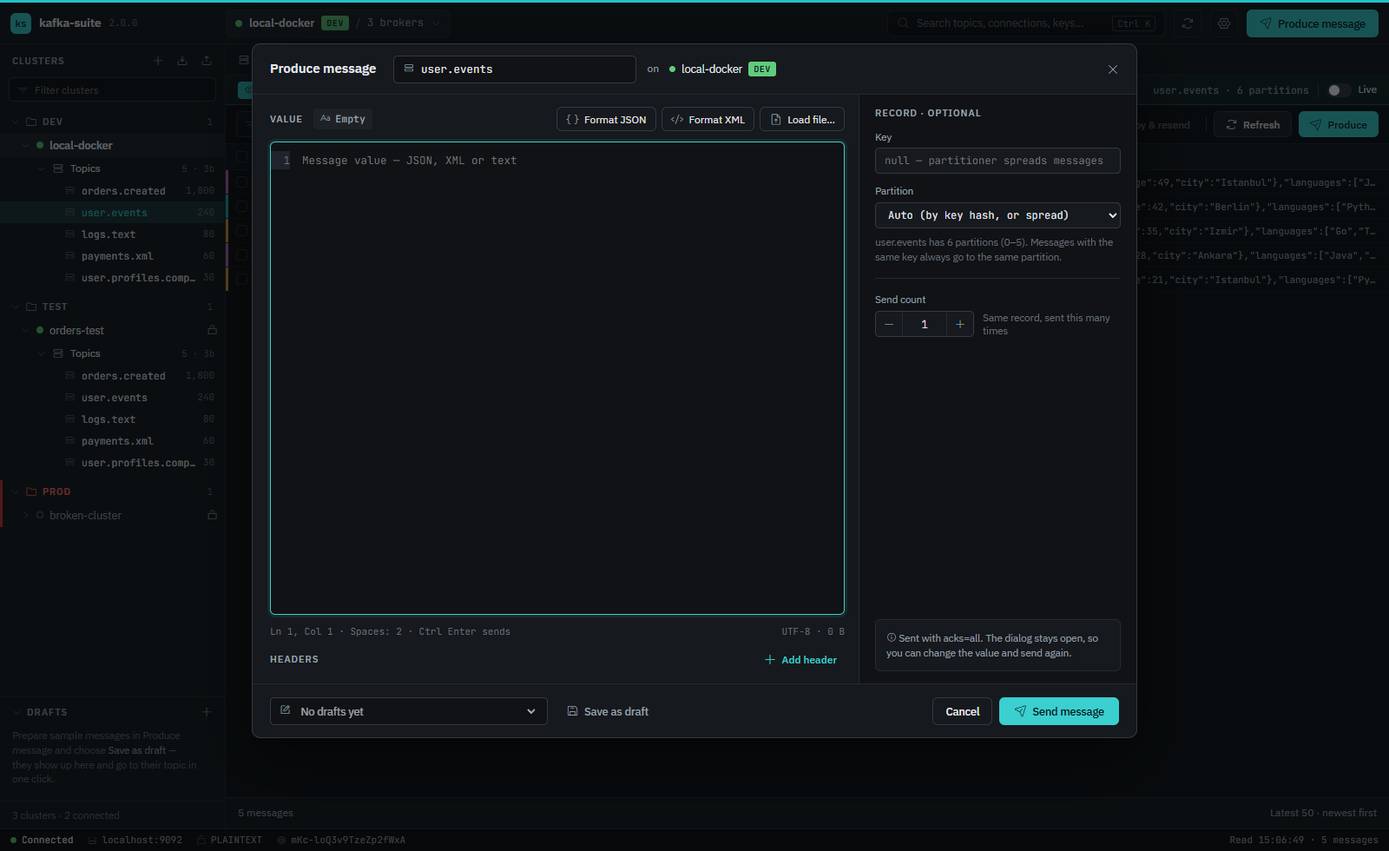
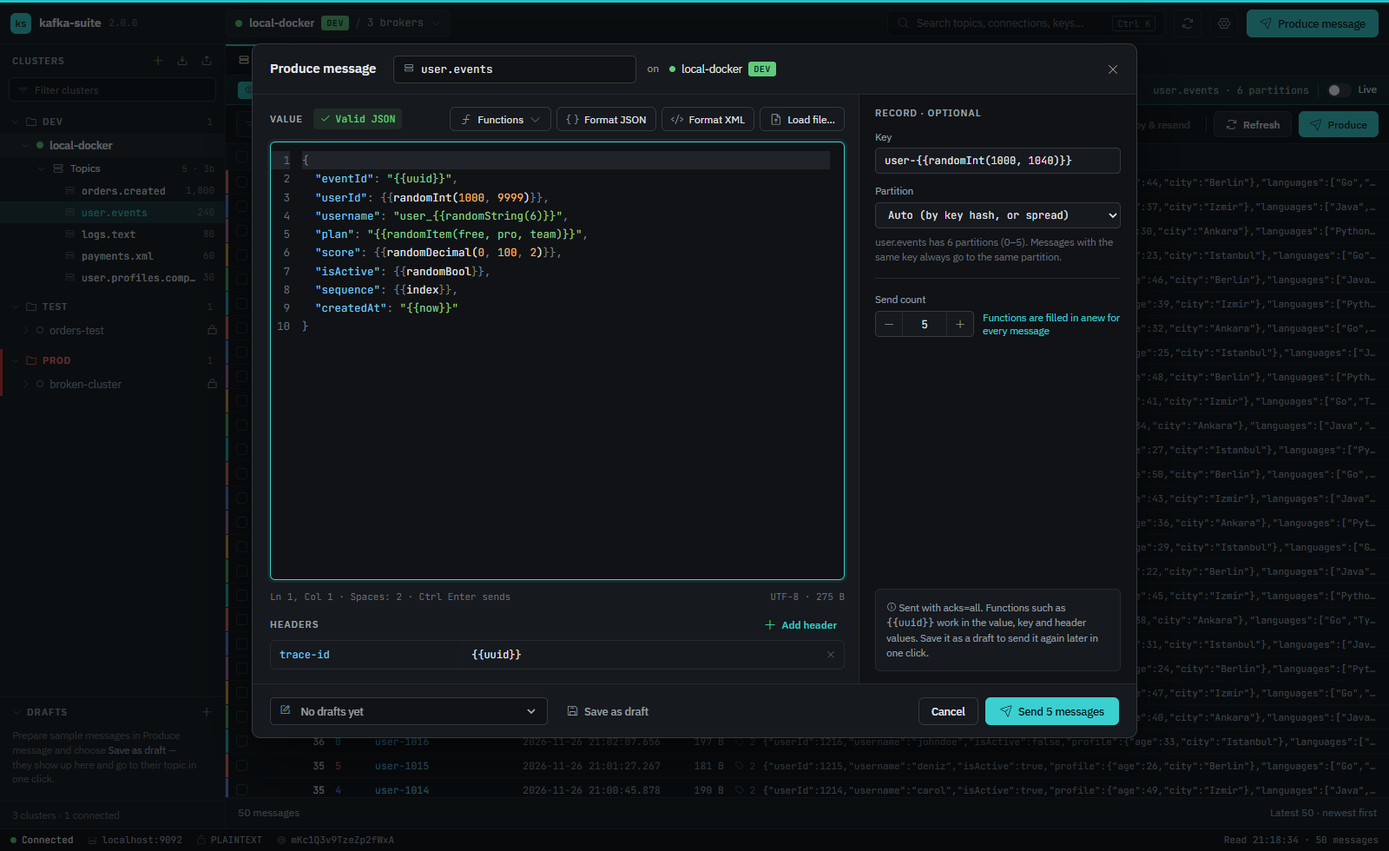
Refactor code structure for improved readability and maintainability

diff --git a/docs/index.html b/docs/index.html
@@ -1,0 +1,305 @@
+<!doctype html>
+<html lang="en">
+<head>
+<meta charset="utf-8" />
+<meta name="viewport" content="width=device-width, initial-scale=1" />
+<title>Kafka Suite — desktop client for Apache Kafka</title>
+<meta name="description" content="Kafka Suite is a free, open-source desktop app for Apache Kafka: browse topics, tail messages live, filter with a query language and produce test messages. Windows, macOS and Linux." />
+<meta property="og:title" content="Kafka Suite — desktop client for Apache Kafka" />
+<meta property="og:description" content="Kafka Suite is a free, open-source desktop app for Apache Kafka: browse topics, tail messages live, filter with a query language and produce test messages. Windows, macOS and Linux." />
+<meta property="og:image" content="https://sametakbal.github.io/kafka-suite/screenshots/messages.png" />
+<meta property="og:type" content="website" />
+<meta name="twitter:card" content="summary_large_image" />
+<meta name="theme-color" content="#0d0f12" />
+<link rel="icon" type="image/png" href="assets/favicon.png" />
+<link rel="preconnect" href="https://fonts.googleapis.com" />
+<link rel="stylesheet" href="https://fonts.googleapis.com/css2?family=IBM+Plex+Sans:wght@400;500;600;700&amp;family=JetBrains+Mono:wght@400;500;600&amp;display=swap" />
+<style>
+html{scroll-behavior:smooth}
+body{margin:0;background:#0d0f12}
+.ks{--bg:#0d0f12;--alt:#121519;--panel:#16191d;--line:#262a31;--text:#e4e7eb;--muted:#a3aab4;--acc:#4cc9d1;--acc-ink:#04191c;--org:#f2803a;
+background:var(--bg);color:var(--text);font-family:"IBM Plex Sans",system-ui,sans-serif;font-size:17px;line-height:1.6;-webkit-font-smoothing:antialiased}
+.ks *{box-sizing:border-box}
+.ks a{color:var(--acc);text-decoration:none}
+.ks a:hover{color:#8fe3e8}
+.ks code,.ks pre{font-family:"JetBrains Mono",ui-monospace,monospace}
+.ks code{font-size:.88em;background:#1e2227;padding:1px 6px;border-radius:5px;color:#d6dadf}
+.wrap{max-width:1180px;margin:0 auto;padding:0 28px}
+.nav{position:sticky;top:0;z-index:10;background:rgba(13,15,18,.85);backdrop-filter:blur(10px);border-bottom:1px solid var(--line)}
+.nav-in{display:flex;align-items:center;justify-content:space-between;gap:16px;height:64px}
+.ks .brand{display:flex;align-items:center;gap:10px;color:var(--text);font-weight:600;font-size:17px}
+.brand img{display:block}
+.nav-links{display:flex;align-items:center;gap:26px}
+.ks .nav-links a{color:var(--muted);font-size:15px}
+.ks .nav-links a:hover{color:var(--text)}
+.btn{display:inline-flex;align-items:center;gap:9px;min-height:46px;padding:0 22px;border-radius:10px;font-weight:600;font-size:16px;border:1px solid transparent}
+.btn-sm{min-height:38px;padding:0 14px;font-size:14px}
+.ks .btn-primary{background:var(--acc);color:var(--acc-ink)}
+.ks .btn-primary:hover{background:#7adbe1;color:var(--acc-ink)}
+.ks .btn-ghost{border-color:#343a43;color:var(--text)}
+.ks .btn-ghost:hover{border-color:var(--acc);color:var(--text)}
+.ks .nav-links .btn-ghost{color:var(--text)}
+.hero{padding:96px 0 40px;text-align:center;background:radial-gradient(900px 420px at 50% -60px,rgba(76,201,209,.16),transparent 70%)}
+.eyebrow{display:inline-flex;align-items:center;gap:8px;margin:0 0 24px;padding:6px 14px;border:1px solid var(--line);border-radius:999px;font:500 13px/1.4 "JetBrains Mono",monospace;color:var(--muted)}
+.dot{width:8px;height:8px;border-radius:50%;background:#5fd38a}
+.hero h1{margin:0 auto;max-width:880px;font-size:64px;line-height:1.06;letter-spacing:-.025em;font-weight:700}
+.acc{color:var(--acc)}
+.lead{max-width:680px;margin:24px auto 0;font-size:20px;color:var(--muted)}
+.cta{display:flex;justify-content:center;flex-wrap:wrap;gap:14px;margin-top:36px}
+.platforms{margin:18px 0 0;font-size:14px;color:var(--muted)}
+.shot{display:block;border:1px solid var(--line);border-radius:14px;overflow:hidden;background:var(--panel);box-shadow:0 30px 80px rgba(0,0,0,.5)}
+.shot img{display:block;width:100%;height:auto}
+.hero-shot{margin-top:64px}
+.sec{padding:110px 0}
+.sec-alt{background:var(--alt);border-top:1px solid var(--line);border-bottom:1px solid var(--line)}
+.kicker{margin:0 0 12px;font:600 13px/1.4 "JetBrains Mono",monospace;letter-spacing:.12em;text-transform:uppercase;color:var(--org);text-align:center}
+.sec h2{margin:0 auto 56px;max-width:760px;font-size:42px;line-height:1.15;letter-spacing:-.02em;text-align:center}
+.grid{display:grid;grid-template-columns:repeat(4,minmax(0,1fr));gap:18px}
+.card{padding:26px;border:1px solid var(--line);border-radius:14px;background:var(--panel)}
+.ic{display:flex;align-items:center;justify-content:center;width:42px;height:42px;border-radius:10px;background:rgba(76,201,209,.1);color:var(--acc)}
+.card h3{margin:18px 0 8px;font-size:18px}
+.card p{margin:0;font-size:15px;color:var(--muted)}
+.split{display:grid;grid-template-columns:minmax(0,5fr) minmax(0,7fr);gap:56px;align-items:center}
+.split .kicker,.split h2{text-align:left;margin-left:0}
+.split h2{margin-bottom:18px}
+.body{margin:0;color:var(--muted)}
+.center{text-align:center;margin:-36px auto 40px;max-width:620px}
+.code{margin:24px 0 0;padding:22px 24px;background:#0a0c0e;border:1px solid var(--line);border-radius:12px;font-size:14px;line-height:1.75;color:#e4e7eb;overflow-x:auto;white-space:pre}
+.code .c{color:#7d848e}
+.gallery{display:grid;grid-template-columns:repeat(2,minmax(0,1fr));gap:36px 28px}
+.gallery figure{margin:0}
+.gallery .shot{box-shadow:0 18px 50px rgba(0,0,0,.4)}
+.gallery figcaption{margin-top:14px;font-size:15px;color:var(--muted)}
+.gallery b{color:var(--text)}
+.dl{display:grid;grid-template-columns:repeat(3,minmax(0,1fr));gap:18px;max-width:900px;margin:0 auto}
+.ks .dl-card{display:flex;flex-direction:column;gap:6px;padding:28px;border:1px solid var(--line);border-radius:14px;background:var(--panel);color:var(--text)}
+.ks .dl-card:hover{border-color:var(--acc);color:var(--text)}
+.os{font-size:22px;font-weight:600}
+.pk{font:14px/1.5 "JetBrains Mono",monospace;color:var(--muted)}
+.note{margin:28px auto 0;text-align:center;font-size:15px;color:var(--muted)}
+.arch{display:grid;grid-template-columns:minmax(0,1fr) 220px minmax(0,1fr);align-items:center;gap:0}
+.arch-box{display:flex;flex-direction:column;gap:8px;padding:28px;border:1px solid var(--line);border-radius:14px;background:var(--panel)}
+.arch-box b{font-size:20px}
+.arch-box span:last-child{font-size:15px;color:var(--muted)}
+.tag{align-self:flex-start;padding:3px 10px;border-radius:6px;font:600 12px/1.5 "JetBrains Mono",monospace;background:rgba(76,201,209,.12);color:var(--acc)}
+.tag-o{background:rgba(242,128,58,.12);color:var(--org)}
+.arch-link{display:flex;flex-direction:column;align-items:center;gap:8px;padding:0 12px;font:12px/1.4 "JetBrains Mono",monospace;color:var(--muted);text-align:center}
+.arch-link i{display:block;width:100%;height:2px;background:linear-gradient(90deg,var(--acc),var(--org))}
+.dev{display:grid;grid-template-columns:minmax(0,5fr) minmax(0,7fr);gap:56px;align-items:center;margin-top:72px}
+.dev h3{margin:0 0 8px;font-size:22px}
+.dev .code{margin:0}
+.foot{padding:40px 0;border-top:1px solid var(--line)}
+.foot-in{display:flex;align-items:center;justify-content:space-between;flex-wrap:wrap;gap:16px}
+.foot p{margin:0;font-size:14px;color:var(--muted)}
+#generate{background:var(--bg)}
+.sec-alt+#generate{border-top:0}
+.split-rev{grid-template-columns:minmax(0,5fr) minmax(0,6fr)}
+.fn-list{display:flex;flex-wrap:wrap;gap:8px;margin:24px 0 0;padding:0;list-style:none}
+.ks .fn-list code{display:inline-block;padding:4px 10px;border:1px solid var(--line);background:var(--panel);color:#cfe9eb;font-size:13px}
+.gen{display:flex;flex-direction:column;gap:10px}
+.gen-pane .code{margin:0}
+.gen-label{margin:0 0 8px;font:500 12px/1.4 "JetBrains Mono",monospace;color:var(--muted);text-transform:uppercase;letter-spacing:.08em}
+.gen-label b{color:var(--acc)}
+.code .fn{color:var(--acc)}
+.code .out{color:#f6a56e}
+.gen-arrow{display:flex;justify-content:center;color:var(--muted)}
+.ks .btn-coffee{background:#ffdd00;color:#1a1600}
+.ks .btn-coffee:hover{background:#ffe740;color:#1a1600}
+.ks .nav-links .btn-coffee{color:#1a1600}
+.support{padding:0 0 110px}
+.support-in{display:flex;align-items:center;justify-content:space-between;flex-wrap:wrap;gap:32px;padding:44px 48px;border:1px solid var(--line);border-radius:18px;background:linear-gradient(135deg,rgba(255,221,0,.07),rgba(76,201,209,.06)),var(--panel)}
+.support-in>div:first-child{flex:1 1 420px;min-width:0}
+.support h2{margin:0 0 10px;font-size:30px;line-height:1.2;letter-spacing:-.015em}
+.support .body{max-width:560px}
+.support-cta{display:flex;flex-wrap:wrap;gap:12px}
+@media (max-width:980px){.grid{grid-template-columns:repeat(2,minmax(0,1fr))}.split,.split-rev,.dev{grid-template-columns:minmax(0,1fr)}.hero h1{font-size:48px}}
+@media (max-width:680px){.hide-sm{display:none}.ks .nav-links .btn-coffee{padding:0 11px}.support-in{padding:32px 24px}.support h2{font-size:26px}.nav-links a:not(.btn){display:none}.grid,.gallery,.dl{grid-template-columns:minmax(0,1fr)}.arch{grid-template-columns:minmax(0,1fr)}.arch-link{padding:18px 0}.arch-link i{width:2px;height:28px}.hero{padding-top:64px}.hero h1{font-size:38px}.lead{font-size:18px}.sec{padding:80px 0}.sec h2{font-size:32px}}
+</style>
+</head>
+<body>
+<div class="ks">
+<header class="nav">
+<div class="wrap nav-in">
+<a class="brand" href="#top"><img src="assets/logo.png" alt="" width="32" height="32" /><span>Kafka Suite</span></a>
+<nav class="nav-links" aria-label="Main">
+<a href="#features">Features</a>
+<a href="#query">Query</a>
+<a href="#generate">Test data</a>
+<a href="#screenshots">Screenshots</a>
+<a href="#install">Install</a>
+<a class="btn btn-coffee btn-sm" href="https://buymeacoffee.com/sametakbal"><svg width="16" height="16" viewBox="0 0 24 24" fill="none" stroke="currentColor" stroke-width="2" stroke-linecap="round" stroke-linejoin="round" aria-hidden="true"><path d="M17 8h1a4 4 0 0 1 0 8h-1"></path><path d="M3 8h14v9a4 4 0 0 1-4 4H7a4 4 0 0 1-4-4Z"></path><path d="M6 2v2"></path><path d="M10 2v2"></path><path d="M14 2v2"></path></svg><span class="hide-sm">Buy me a coffee</span></a>
+<a class="btn btn-ghost btn-sm" href="https://github.com/sametakbal/kafka-suite"><svg width="16" height="16" viewBox="0 0 24 24" fill="currentColor" aria-hidden="true"><path d="M12 .5a11.5 11.5 0 0 0-3.64 22.41c.58.1.79-.25.79-.56v-2c-3.2.7-3.88-1.37-3.88-1.37-.52-1.33-1.28-1.69-1.28-1.69-1.05-.71.08-.7.08-.7 1.16.08 1.77 1.19 1.77 1.19 1.03 1.77 2.7 1.26 3.36.96.1-.75.4-1.26.73-1.55-2.55-.29-5.24-1.28-5.24-5.69 0-1.26.45-2.29 1.19-3.1-.12-.29-.52-1.46.11-3.05 0 0 .97-.31 3.17 1.18a11 11 0 0 1 5.77 0c2.2-1.49 3.17-1.18 3.17-1.18.63 1.59.23 2.76.11 3.05.74.81 1.19 1.84 1.19 3.1 0 4.42-2.7 5.39-5.26 5.68.41.36.78 1.06.78 2.14v3.17c0 .31.21.67.8.56A11.5 11.5 0 0 0 12 .5Z"></path></svg>GitHub</a>
+</nav>
+</div>
+</header>
+
+<section class="hero" id="top">
+<div class="wrap">
+<p class="eyebrow"><span class="dot"></span>Free &amp; open source · MIT</p>
+<h1>A fast desktop client for your <span class="acc">Kafka</span> clusters.</h1>
+<p class="lead">Browse topics, read the latest messages or tail new ones live, filter them with a small query language, and produce realistic test data. No server, no consumer groups, nothing to install besides the app.</p>
+<div class="cta">
+<a class="btn btn-primary" href="https://github.com/sametakbal/kafka-suite/releases/latest"><svg width="18" height="18" viewBox="0 0 24 24" fill="none" stroke="currentColor" stroke-width="2" stroke-linecap="round" stroke-linejoin="round" aria-hidden="true"><path d="M12 3v12"></path><path d="m7 10 5 5 5-5"></path><path d="M5 21h14"></path></svg>Download</a>
+<a class="btn btn-ghost" href="https://github.com/sametakbal/kafka-suite">View source on GitHub</a>
+</div>
+<p class="platforms">Windows · macOS · Linux — Java runtime and Kafka client bundled</p>
+<div class="shot hero-shot"><img src="screenshots/messages.png" alt="Kafka Suite reading the user.events topic with a JSON message open" width="1600" height="980" /></div>
+</div>
+</section>
+
+<section class="sec" id="features">
+<div class="wrap">
+<p class="kicker">Features</p>
+<h2>Everything you reach for when debugging a topic.</h2>
+<div class="grid">
+<article class="card"><div class="ic"><svg width="22" height="22" viewBox="0 0 24 24" fill="none" stroke="currentColor" stroke-width="2" stroke-linecap="round" stroke-linejoin="round" aria-hidden="true"><path d="M3 7a2 2 0 0 1 2-2h4l2 2h8a2 2 0 0 1 2 2v8a2 2 0 0 1-2 2H5a2 2 0 0 1-2-2Z"></path></svg></div><h3>Clusters in folders</h3><p>Group connections and tag each one DEV, TEST or PROD with a colour. Export and import them as JSON — passwords never included.</p></article>
+<article class="card"><div class="ic"><svg width="22" height="22" viewBox="0 0 24 24" fill="none" stroke="currentColor" stroke-width="2" stroke-linecap="round" stroke-linejoin="round" aria-hidden="true"><rect x="4" y="11" width="16" height="10" rx="2"></rect><path d="M8 11V7a4 4 0 0 1 8 0v4"></path></svg></div><h3>SASL, TLS &amp; keychain</h3><p>PLAINTEXT, SSL, SASL_PLAINTEXT and SASL_SSL with PLAIN or SCRAM. JKS, PKCS#12 or PEM stores. Secrets live in the OS keychain.</p></article>
+<article class="card"><div class="ic"><svg width="22" height="22" viewBox="0 0 24 24" fill="none" stroke="currentColor" stroke-width="2" stroke-linecap="round" stroke-linejoin="round" aria-hidden="true"><path d="M4 6h16"></path><path d="M4 12h16"></path><path d="M4 18h10"></path></svg></div><h3>Latest messages</h3><p>Opening a topic reads its newest messages across all partitions. Partitions are assigned directly: no consumer group, nothing committed.</p></article>
+<article class="card"><div class="ic"><svg width="22" height="22" viewBox="0 0 24 24" fill="none" stroke="currentColor" stroke-width="2" stroke-linecap="round" stroke-linejoin="round" aria-hidden="true"><path d="M3 12h4l3-8 4 16 3-8h4"></path></svg></div><h3>Live tail</h3><p>Watch new messages arrive, newest first, with a configurable buffer. Each partition gets its own colour.</p></article>
+<article class="card"><div class="ic"><svg width="22" height="22" viewBox="0 0 24 24" fill="none" stroke="currentColor" stroke-width="2" stroke-linecap="round" stroke-linejoin="round" aria-hidden="true"><path d="M3 5h18l-7 8v6l-4 2v-8Z"></path></svg></div><h3>Query language</h3><p>Filter on JSON fields, arrays and nulls with <code>and</code>, <code>or</code>, <code>not</code> and <code>contains</code>. Plain text searches keys and values.</p></article>
+<article class="card"><div class="ic"><svg width="22" height="22" viewBox="0 0 24 24" fill="none" stroke="currentColor" stroke-width="2" stroke-linecap="round" stroke-linejoin="round" aria-hidden="true"><path d="m8 8-4 4 4 4"></path><path d="m16 8 4 4-4 4"></path><path d="m14 4-4 16"></path></svg></div><h3>Text, JSON, XML, Hex</h3><p>Inspect values, keys and headers in the format they are in. Optionally show CR, LF, TAB, SOH, NUL as visible markers.</p></article>
+<article class="card"><div class="ic"><svg width="22" height="22" viewBox="0 0 24 24" fill="none" stroke="currentColor" stroke-width="2" stroke-linecap="round" stroke-linejoin="round" aria-hidden="true"><path d="M22 2 11 13"></path><path d="M22 2 15 22l-4-9-9-4Z"></path></svg></div><h3>Produce &amp; drafts</h3><p>A highlighted editor with key, partition and headers. Save drafts and send them in one click — PROD clusters ask first.</p></article>
+<article class="card"><div class="ic"><svg width="22" height="22" viewBox="0 0 24 24" fill="none" stroke="currentColor" stroke-width="2" stroke-linecap="round" stroke-linejoin="round" aria-hidden="true"><circle cx="12" cy="12" r="9"></circle><path d="M12 7v5"></path><path d="M12 16h.01"></path></svg></div><h3>Errors that explain</h3><p>Timeouts, SASL, TLS and authorization failures show their likely causes and retry automatically.</p></article>
+</div>
+</div>
+</section>
+
+<section class="sec sec-alt" id="query">
+<div class="wrap split">
+<div class="split-text">
+<p class="kicker">Query language</p>
+<h2>Find the one message you need.</h2>
+<p class="body">Type a filter over the message value and the list narrows as you go. Nested fields, array indexes, null checks and negation all work.</p>
+<pre class="code"><span class="c"># nested fields and logic</span>
+profile.age &gt; 25 and username = "johndoe"
+
+<span class="c"># arrays</span>
+languages contains "Python"
+roles[0].roleName = Admin
+
+<span class="c"># nulls and negation</span>
+phoneNumber is not null
+not (isActive = true)</pre>
+</div>
+<div class="shot"><img src="screenshots/query.png" alt="Messages filtered with profile.age greater than 30 and languages contains Go" width="1600" height="980" /></div>
+</div>
+</section>
+
+<section class="sec" id="generate">
+<div class="wrap split split-rev">
+<div class="split-text">
+<p class="kicker">New · Test data</p>
+<h2>Send a thousand different messages in one click.</h2>
+<p class="body">Drop functions like <code>{{uuid}}</code> or <code>{{randomInt(1, 100)}}</code> into the value, key or header values. Set a send count and every message is filled in anew — JSON validation still checks the result.</p>
+<ul class="fn-list">
+<li><code>{{uuid}}</code></li>
+<li><code>{{randomString(12)}}</code></li>
+<li><code>{{randomInt(1, 1000)}}</code></li>
+<li><code>{{randomDecimal(0, 100, 2)}}</code></li>
+<li><code>{{randomBool}}</code></li>
+<li><code>{{randomItem(red, green, blue)}}</code></li>
+<li><code>{{index}}</code></li>
+<li><code>{{timestamp}}</code></li>
+<li><code>{{now}}</code></li>
+</ul>
+</div>
+<div class="gen">
+<div class="gen-pane">
+<p class="gen-label">Value · send count <b>1000</b></p>
+<pre class="code">{
+  "orderId": "<span class="fn">{{uuid}}</span>",
+  "seq": <span class="fn">{{index}}</span>,
+  "amount": <span class="fn">{{randomDecimal(5, 500, 2)}}</span>,
+  "status": "<span class="fn">{{randomItem(NEW, PAID, SHIPPED)}}</span>",
+  "createdAt": "<span class="fn">{{now}}</span>"
+}</pre>
+</div>
+<div class="gen-arrow" aria-hidden="true"><svg width="22" height="22" viewBox="0 0 24 24" fill="none" stroke="currentColor" stroke-width="2" stroke-linecap="round" stroke-linejoin="round"><path d="M12 5v14"></path><path d="m6 13 6 6 6-6"></path></svg></div>
+<div class="gen-pane">
+<p class="gen-label">Message 2 of 1000</p>
+<pre class="code">{
+  "orderId": "<span class="out">9b2e4f1c-7a30-4d8e-b5c2-1f6a0e93d7b4</span>",
+  "seq": <span class="out">2</span>,
+  "amount": <span class="out">218.47</span>,
+  "status": "<span class="out">PAID</span>",
+  "createdAt": "<span class="out">2026-11-26T17:42:08.311Z</span>"
+}</pre>
+</div>
+</div>
+</div>
+</section>
+
+<section class="sec" id="screenshots">
+<div class="wrap">
+<p class="kicker">Screenshots</p>
+<h2>A closer look.</h2>
+<div class="gallery">
+<figure><a class="shot" href="screenshots/topics.png"><img src="screenshots/topics.png" alt="Topic list with cluster stats" loading="lazy" /></a><figcaption><b>Topics</b> — partitions, replication, retained messages</figcaption></figure>
+<figure><a class="shot" href="screenshots/live-tail.png"><img src="screenshots/live-tail.png" alt="Live tail of a topic" loading="lazy" /></a><figcaption><b>Live tail</b> — new messages as they arrive</figcaption></figure>
+<figure><a class="shot" href="screenshots/produce.png"><img src="screenshots/produce.png" alt="Produce message dialog" loading="lazy" /></a><figcaption><b>Produce</b> — value editor, key, partition, headers</figcaption></figure>
+<figure><a class="shot" href="screenshots/overview.png"><img src="screenshots/overview.png" alt="Overview of all clusters" loading="lazy" /></a><figcaption><b>Overview</b> — every cluster at a glance</figcaption></figure>
+<figure><a class="shot" href="screenshots/light-xml.png"><img src="screenshots/light-xml.png" alt="Light theme showing an XML value" loading="lazy" /></a><figcaption><b>Light theme</b> — XML value with highlighting</figcaption></figure>
+<figure><a class="shot" href="screenshots/connection.png"><img src="screenshots/connection.png" alt="Connection settings with SASL and TLS" loading="lazy" /></a><figcaption><b>Connection</b> — SASL, TLS stores, keychain</figcaption></figure>
+</div>
+</div>
+</section>
+
+<section class="sec sec-alt" id="install">
+<div class="wrap">
+<p class="kicker">Install</p>
+<h2>Download, open, connect.</h2>
+<p class="body center">The Apache Kafka client and a Java runtime are bundled, so there is nothing else to install.</p>
+<div class="dl">
+<a class="dl-card" href="https://github.com/sametakbal/kafka-suite/releases/latest"><span class="os">Windows</span><span class="pk">.msi · -setup.exe</span></a>
+<a class="dl-card" href="https://github.com/sametakbal/kafka-suite/releases/latest"><span class="os">macOS</span><span class="pk">.dmg</span></a>
+<a class="dl-card" href="https://github.com/sametakbal/kafka-suite/releases/latest"><span class="os">Linux</span><span class="pk">.deb · .rpm · .AppImage</span></a>
+</div>
+<p class="note">Upgrading from 1.x? Saved connections are imported on first start and their passwords move to the OS keychain.</p>
+</div>
+</section>
+
+<section class="sec" id="architecture">
+<div class="wrap">
+<p class="kicker">Under the hood</p>
+<h2>Runs entirely on your machine.</h2>
+<div class="arch">
+<div class="arch-box"><span class="tag">Tauri · Rust</span><b>React UI</b><span>Keychain, local JSON files, file dialogs, live-tail events to the webview</span></div>
+<div class="arch-link" aria-hidden="true"><span>line-delimited JSON</span><i></i><span>stdin / stdout</span></div>
+<div class="arch-box"><span class="tag tag-o">Java 21 sidecar</span><b>Apache Kafka client</b><span>Admin, consumer (assign), producer and live tail — one client pool per cluster</span></div>
+</div>
+<div class="dev">
+<div>
+<h3>Build from source</h3>
+<p class="body">Requires Node 22+, Rust (stable) and JDK 21+. Maven isn't needed.</p>
+</div>
+<pre class="code">npm install
+npm run sidecar      <span class="c"># sidecar jar + jlink runtime</span>
+npm run tauri dev    <span class="c"># start the app</span></pre>
+</div>
+</div>
+</section>
+
+<section class="support" id="support">
+<div class="wrap"><div class="support-in">
+<div>
+<h2>Kafka Suite saves you time?</h2>
+<p class="body">It's free and built in my spare time. If it helps your work, a coffee keeps new releases coming — and a star on GitHub helps others find it.</p>
+</div>
+<div class="support-cta">
+<a class="btn btn-coffee" href="https://buymeacoffee.com/sametakbal"><svg width="18" height="18" viewBox="0 0 24 24" fill="none" stroke="currentColor" stroke-width="2" stroke-linecap="round" stroke-linejoin="round" aria-hidden="true"><path d="M17 8h1a4 4 0 0 1 0 8h-1"></path><path d="M3 8h14v9a4 4 0 0 1-4 4H7a4 4 0 0 1-4-4Z"></path><path d="M6 2v2"></path><path d="M10 2v2"></path><path d="M14 2v2"></path></svg>Buy me a coffee</a>
+<a class="btn btn-ghost" href="https://github.com/sametakbal/kafka-suite"><svg width="18" height="18" viewBox="0 0 24 24" fill="none" stroke="currentColor" stroke-width="2" stroke-linecap="round" stroke-linejoin="round" aria-hidden="true"><path d="m12 3 2.8 5.7 6.2.9-4.5 4.4 1.1 6.2L12 17.3 6.4 20.2l1.1-6.2L3 9.6l6.2-.9Z"></path></svg>Star on GitHub</a>
+</div>
+</div>
+</div>
+</section>
+
+<footer class="foot">
+<div class="wrap foot-in">
+<a class="brand" href="#top"><img src="assets/logo.png" alt="" width="28" height="28" /><span>Kafka Suite</span></a>
+<p>MIT licensed · built by <a href="https://github.com/sametakbal">Samet Akbal</a> · <a href="https://github.com/sametakbal/kafka-suite/issues">Report an issue</a> · <a href="https://buymeacoffee.com/sametakbal">Buy me a coffee</a></p>
+</div>
+</footer>
+</div>
+
+</body>
+</html>

diff --git a/src/components/dialogs/ProduceDialog.tsx b/src/components/dialogs/ProduceDialog.tsx
@@ -319,7 +319,7 @@ function FunctionsMenu({ disabled, onPick }: { disabled: boolean; onPick: (text:
         <Icon name="ph-function" color="var(--muted)" />Functions<Icon name="ph-caret-down" color="var(--faint)" />
       </button>
       {open && (
-        <div className="popover" style={{ top: 30, right: 0, width: 400, display: "flex", flexDirection: "column", gap: 2 }}>
+        <div className="popover" style={{ top: 30, left: 0, width: 400, display: "flex", flexDirection: "column", gap: 2 }}>
           <div style={{ padding: "6px 10px 8px", fontSize: 11.5, color: "var(--muted)", lineHeight: 1.45 }}>
             Filled in separately for every message sent. Also work in the key and header values.
           </div>

diff --git a/README.md b/README.md
@@ -13,7 +13,7 @@ An open-source, cross-platform desktop app for working with Apache Kafka cluster
 ## Features
 
 - **Clusters:** Organise them in folders and tag each one as DEV, TEST or PROD with a colour. Selecting a cluster connects it. Connections can be exported to JSON and imported on another machine; passwords are never included in exports.
-- **Security:** PLAINTEXT, SSL, SASL_PLAINTEXT and SASL_SSL with SASL PLAIN, SCRAM-SHA-256 or SCRAM-SHA-512. TLS takes a truststore and an optional client keystore (JKS, PKCS#12 or PEM); host name verification can be turned off for test clusters.
+- **Security:** None, PLAINTEXT, SSL, SASL_PLAINTEXT and SASL_SSL with SASL PLAIN, SCRAM-SHA-256 or SCRAM-SHA-512. TLS takes a truststore and an optional client keystore (JKS, PKCS#12 or PEM); host name verification can be turned off for test clusters. With **None**, no `security.protocol` is sent and the Kafka client uses its own default.
 - **Passwords in the OS keychain:** Windows Credential Manager, macOS Keychain or Secret Service on Linux, under the service name `kafka-suite`.
 - **Overview and topics:** Connected clusters with their real broker counts. Each cluster lists its topics with partitions, replication factor and retained message count, a search (`orders.*` works) and an option to hide internal topics.
 - **Latest messages:** Opening a topic reads its newest messages across all partitions (50 by default). Partitions are assigned directly, so no consumer group is created and nothing is committed.
@@ -21,11 +21,49 @@ An open-source, cross-platform desktop app for working with Apache Kafka cluster
 - **Query language:** Filter on JSON values, e.g. `profile.age > 25 and username = "johndoe"`, `languages contains "Python"`, `roles[0].roleName = Admin`, `phoneNumber is not null`, `not (isActive = true)`. Text without operators searches keys and values.
 - **Message details:** The value can be shown as Text, JSON, XML or Hex, with a tab each for the key and the headers. Each partition gets its own colour.
 - **Control characters:** Optionally shows CR, LF, TAB and ASCII controls such as SOH, STX and NUL as visible markers.
-- **Produce:** A syntax-highlighted editor with JSON/XML formatting and loading a value from a file (binary too). You can set the key, the partition and headers, and send several copies. The dialog stays open, so you can send again.
+- **Produce:** A syntax-highlighted editor with JSON/XML formatting and loading a value from a file (binary too). You can set the key, the partition and headers, and send up to 10,000 messages at once.
+- **Generated test data:** Functions such as `{{uuid}}`, `{{randomInt(1, 100)}}` or `{{now}}` in the value, key or header values are filled in anew for every message sent, so one send produces varied records. See [Generating test data](#generating-test-data).
 - **Drafts:** Saved sample messages that remember their topic and cluster. Send one in a single click from the sidebar; PROD clusters ask first.
 - **Create topic:** Partitions, replication factor and topic configs, with the common ones (`retention.ms`, `cleanup.policy`, …) one click away.
 - **Error screens:** Show what failed (timeout, SASL, TLS, authorization…), its likely causes and a countdown to an automatic retry.
 - Dark, light or system theme; `Ctrl+K` to search topics, clusters, drafts and message keys.
+
+## Generating test data
+
+The Produce dialog's **Functions** menu inserts placeholders at the cursor. They work in the value, the key and header values, and are filled in separately for every message, so **Send count** produces that many different records instead of copies of one. The value is checked as JSON with the placeholders filled in, so `"userId": {{randomInt(1000, 9999)}}` still counts as valid JSON.
+
+![Functions menu in the Produce dialog](docs/screenshots/produce-functions.png)
+
+| Function | Result |
+|----------|--------|
+| `{{uuid}}` | Random UUID v4 |
+| `{{randomString(12)}}` | Letters and digits of the given length |
+| `{{randomInt(1, 1000)}}` | Whole number from min to max |
+| `{{randomDecimal(0, 100, 2)}}` | Number from min to max, with the given number of decimals |
+| `{{randomBool}}` | `true` or `false` |
+| `{{randomItem(red, green, blue)}}` | One of the given values |
+| `{{index}}` | Message number within this send: 1, 2, 3… |
+| `{{timestamp}}` | Epoch milliseconds |
+| `{{now}}` | ISO 8601 date and time |
+
+An unknown name, or arguments that do not fit, are sent as written. Drafts keep their placeholders, so a draft sent from the sidebar gets fresh values each time.
+
+For example, this value with a send count of 5 produces five messages, each with its own `eventId`, `userId`, `plan` and `sequence`:
+
+```text
+{
+  "eventId": "{{uuid}}",
+  "userId": {{randomInt(1000, 9999)}},
+  "username": "user_{{randomString(6)}}",
+  "plan": "{{randomItem(free, pro, team)}}",
+  "score": {{randomDecimal(0, 100, 2)}},
+  "isActive": {{randomBool}},
+  "sequence": {{index}},
+  "createdAt": "{{now}}"
+}
+```
+
+![The five generated messages at the top of user.events](docs/screenshots/produce-generated.png)
 
 ## Screenshots
 
@@ -34,11 +72,13 @@ An open-source, cross-platform desktop app for working with Apache Kafka cluster
 | ![Topic list with cluster stats](docs/screenshots/topics.png) | ![Live tail](docs/screenshots/live-tail.png) |
 | **Topics**: partitions, replication, retained messages, broker info | **Live tail**: new messages as they arrive, no consumer group |
 | ![Query filter](docs/screenshots/query.png) | ![Produce message](docs/screenshots/produce.png) |
-| **Query**: `profile.age > 30 and languages contains "Go"` | **Produce**: value editor, key, partition, headers, drafts |
+| **Query**: `profile.age > 30 and languages contains "Go"` | **Produce**: value editor, key, partition, headers, functions |
 | ![Overview of clusters](docs/screenshots/overview.png) | ![Light theme with an XML value](docs/screenshots/light-xml.png) |
 | **Overview**: every cluster at a glance | **Light theme**: XML value with highlighting |
 | ![Connection settings](docs/screenshots/connection.png) | ![Cluster not reachable](docs/screenshots/error.png) |
 | **Connection**: SASL, TLS stores, keychain | **Errors**: likely causes, automatic retry |
+| ![Connection with the None security protocol](docs/screenshots/connection-none.png) | |
+| **None**: no `security.protocol`, the client's default applies | |
 
 ## Installation
 
